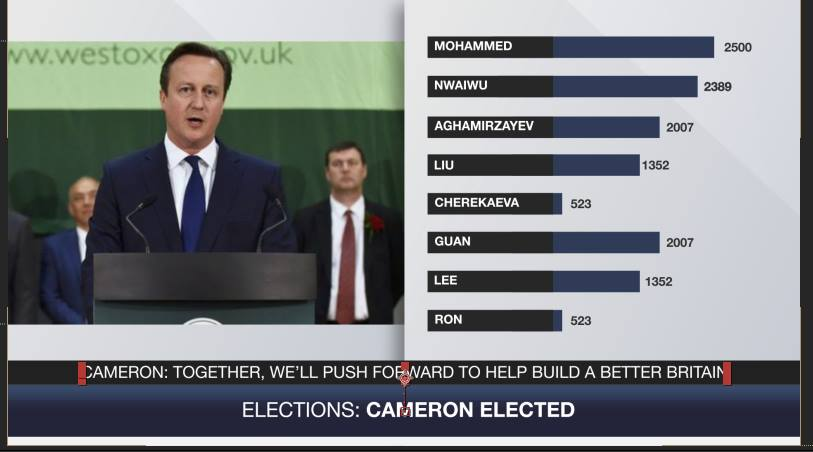
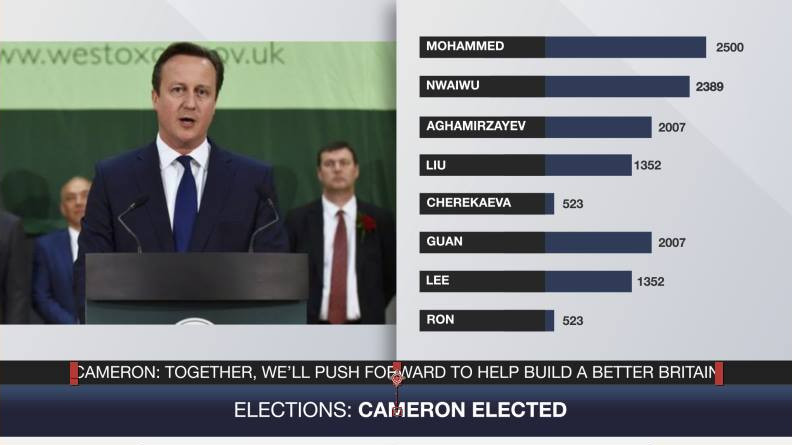
Finish up graph animations

diff --git a/public/simple-js/graph.js b/public/simple-js/graph.js
@@ -3,49 +3,24 @@
 function render(){
   Graphs.addRound();
 
-  Graphs.addData(0, 50);
-  Graphs.addData(1, 10)
-  Graphs.addData(2, 99);
-  Graphs.addData(3, 99);
-  Graphs.addData(4, 99);
-  Graphs.addData(5, 99);
-  Graphs.addData(6, 99);
-  Graphs.addData(7, 99);
+  // Graphs.addData(0, 50);
+  // Graphs.addData(1, 10)
+  // Graphs.addData(2, 99);
+  // Graphs.addData(3, 99);
+  // Graphs.addData(4, 99);
+  // Graphs.addData(5, 99);
+  // Graphs.addData(6, 99);
+  // Graphs.addData(7, 99);
 }
 
 // ============================================
 
 var TARGET_BAR_THICKNESS = 55;
-var AREA_HEIGHT = 750;
-
-var myLabels = [
-  "Aghamirzayev".toUpperCase(),
-  "Cherekaeva".toUpperCase(),
-  "Guan".toUpperCase(),
-  "Liu".toUpperCase(),
-  "Mohammed".toUpperCase(),
-  "Nwaiwu".toUpperCase(),
-  "Nwaiwu".toUpperCase(),
-  "RON"
-];
-
-var initialData = {
-  labels : [ "","","","","","","",""],
-  datasets : [
-    {
-      fillColor : "#333d56",
-      highlightFill : "#333d56",
-      data : [0,0,0,0,0,0,0,0]
-    }
-  ]
-
-};
+var TARGET_BAR_SPACING = 20*2;
+var MAX_AREA_HEIGHT = 750;
 
 Chart.defaults.global.showScale = false;
 Chart.defaults.global.scaleShowLabels = false;
-// Chart.defaults.global.scaleOverride = true;
-// Chart.defaults.global.scaleSteps = 1.2;
-// Chart.defaults.global.scaleStepWidth= 90; // TODO dynamic this
 Chart.defaults.global.scaleLineColor = "transparent";
 Chart.defaults.global.scaleFontColor = "transparent";
 Chart.defaults.global.scaleFontSize = 22;
@@ -55,12 +30,12 @@ Chart.defaults.global.customTooltips = function(tooltip) {
   if(tooltip == false || !tooltip.text)
     return;
 
-  var elm = document.getElementById('tooltip'+tooltip.y)
+  var elm = document.getElementById('tooltip'+Math.floor(tooltip.y))
 
   if(!elm){
     elm = document.createElement('span');
     document.getElementById('chartWrapper').appendChild(elm);   
-    elm.setAttribute('id', 'tooltip'+tooltip.y); 
+    elm.setAttribute('id', 'tooltip'+Math.floor(tooltip.y)) 
   }
 
   elm.innerHTML = tooltip.text;
@@ -71,7 +46,6 @@ Chart.defaults.global.customTooltips = function(tooltip) {
   elm.style.left = (chart.offsetLeft+tooltip.x)+"px";
   elm.style.top = (chart.offsetTop+tooltip.y)+"px";
 
-  // elm.style.marginLeft = -(elm.offsetWidth)+"px";
   elm.style.marginLeft = "10px";
   elm.style.marginTop = -(elm.offsetHeight/2)+"px";
 
@@ -87,12 +61,6 @@ var Graphs = {
     if(hidden){
       hidden.remove();
     }
-
-    // var previous = document.querySelector('canvas.previous');
-    // if(previous){
-    //   previous.classList.add('gone');
-    //   previous.classList.remove('previous');
-    // }
 
     var current = document.querySelector('canvas.current');
     if(current){
@@ -114,7 +82,29 @@ var Graphs = {
 
     var ctx = canvas.getContext('2d');
 
-    var barSpacing = Graphs.barSpacing = (AREA_HEIGHT - (initialData.labels.length * TARGET_BAR_THICKNESS)) / (initialData.labels.length * 2);
+    var barSpacing = Graphs.barSpacing = TARGET_BAR_SPACING/2;
+
+    var chartHeight = (TARGET_BAR_SPACING + TARGET_BAR_THICKNESS) * Graphs.myLabels.length;
+    var marginTop = (MAX_AREA_HEIGHT - chartHeight)/2;
+    wrapper.style.height = chartHeight+"px";
+    canvas.style.marginTop = marginTop + "px";
+    document.querySelector('#chartLabels').style.marginTop = (marginTop+45) + "px";
+
+
+    var labels = [];
+    for(var i in Graphs.myLabels){
+      labels.push("");
+    }
+    var initialData = {
+      labels : labels,
+      datasets : [
+        {
+          fillColor : "#333d56",
+          highlightFill : "#333d56",
+          data : [0,0,0,0,0,0,0,0,0,0,0]
+        }
+      ]
+    };
 
     Graphs.current = new Chart(ctx).HorizontalBar(initialData, {
       scaleBeginAtZero: true,
@@ -146,11 +136,11 @@ var Graphs = {
         for(var i in this.datasets[0].bars){
           var bar = this.datasets[0].bars[i];
 
-          var elm = document.getElementById('tooltip'+bar.x);
+          var elm = document.getElementById('tooltip'+Math.floor(bar.y+1));
           if(elm == null || elm.classList.contains('invisible'))
             continue;
 
-          elm.style.x = (chart.offsetLeft+bar.x)+"px";
+          elm.style.left = (chart.offsetLeft+bar.x)+"px";
         }
       },
     });
@@ -165,7 +155,6 @@ var Graphs = {
     if(oldLabel)
       oldLabel.classList.add('disabled');
 
-
   },
 
   removeAllTooltip: function(){
@@ -174,87 +163,32 @@ var Graphs = {
     for(var i in elms){
       if(elms[i].classList)
         elms[i].classList.add('invisible');
-      // if(elms[i].remove)
-      //   elms[i].remove();
     }
   },
 
   addData: function(i, v){
-    var labelCount = initialData.labels.length;
+    var labelCount = Graphs.myLabels.length;
     Graphs.current.datasets[0].bars[labelCount-1-i].value = v;
 
-    // var currentMax = Graphs.current.scale.stepValue * Graphs.current.scale.steps;
-    // var newStepCount = v / Graphs.current.scale.stepValue;
-
-    // if(newStepCount > Graphs.current.scale.steps) {
-    //   Graphs.current.scale.steps = newStepCount;
-    //   Graphs.current.scale.max = v;
-    // }
-
     Graphs.current.update();
-  },
-
-  setQuota: function(v){
-    // Graphs.current.scale.stepValue = v;
-    // Graphs.current.scale.steps = 1.2;
-    // Graphs.current.scale.max = v * 1.2;
-
-    // Graphs.current.update();
   },
 
   createLabels: function(){
     var wrapper = document.querySelector('#chartLabels');
 
-    var labelCount = initialData.labels.length;
+    if(wrapper.innerHTML.length > 10)
+      return;
+
+    var labelCount = Graphs.myLabels.length;
 
     for(var i = 0; i < labelCount; i++){
       var elm = document.createElement('div');
       elm.classList.add('myLabel')
       elm.setAttribute('id', 'graphLabel'+i);
-      elm.innerHTML = myLabels[i];
+      elm.innerHTML = Graphs.myLabels[i];
       elm.style.marginTop = (Graphs.barSpacing*2)+"px";
       wrapper.appendChild(elm);
     }
-
-    // var table = document.createElement('table');
-    // document.querySelector('.chartFooter').appendChild(table);
-    // var tr1 = document.createElement('div');
-    // tr1.classList.add('myRow');
-    // document.querySelector('.chartFooter').appendChild(tr1);
-    // var tr2 = document.createElement('div');
-    // tr2.classList.add('myRow');
-    // document.querySelector('.chartFooter').appendChild(tr2);
-
-    // var labelCount = initialData.labels.length;
-
-    // var fullWidth = 2 * (Graphs.columnWidth + Graphs.columnSeperation);
-    // var leftMargin = (Graphs.columnWidth + Graphs.columnSeperation) / 2;
-    // var spacerWidth = (Graphs.columnWidth + Graphs.columnSeperation);
-
-    // document.querySelector('.chartFooter').style.marginLeft = -(leftMargin-75)+"px";
-    // var rowWidth = 900 + leftMargin * 2;
-    // tr1.style.width = rowWidth+"px";
-    // tr2.style.width = rowWidth+"px";
-
-    // for(var i = 0; i <= labelCount; i++){
-    //   if(i == 0){
-    //     Graphs.addLabel(tr1, fullWidth, myLabels[i]);
-    //     Graphs.addLabel(tr2, spacerWidth, "");
-    //   } else if (i == labelCount){
-    //     var tr = i%2 == 0 ? tr1 : tr2;
-    //     Graphs.addLabel(tr, spacerWidth, "");
-    //   } else {
-    //     var tr = i%2 == 0 ? tr1 : tr2;
-    //     Graphs.addLabel(tr, fullWidth, myLabels[i]);
-    //   }  
-    // }
-  },
-
-  addLabel: function(tr, width, val){
-    var td = document.createElement('div');
-    td.classList.add('myLabel')
-    td.style.width = width+"px";
-    td.innerHTML = val; 
-    tr.appendChild(td);
   }
+
 };

diff --git a/src/less/partials/graph.less b/src/less/partials/graph.less
@@ -20,7 +20,7 @@
 
       text-align: left;
       line-height: 55px;
-      padding: 0 10px;
+      padding: 0 15px;
 
       font-size: 32px;
       color: #fff;
@@ -58,20 +58,9 @@
     position: absolute;
     top: 50px;
     margin-left: -5px;
-    // margin-left: 75px;
-  }
-
-  canvas.previous {
-    margin-top: -10px;
-    margin-left: -10px;
-    opacity: 0.5;
-
-    transition: 0.5s all;
   }
 
   canvas.gone {
-    // margin-top: -20px;
-    // margin-left: -20px;
     opacity: 0;
 
     transition: 0.5s all;

diff --git a/graph.html b/graph.html
@@ -36,6 +36,17 @@
     <script type="text/javascript" src="public/simple-js/graph.js"></script>
     <script type="text/javascript">
 
+      Graphs.myLabels = [
+        "Aghamirzayev".toUpperCase(),
+        // "Cherekaeva".toUpperCase(),
+        "Guan".toUpperCase(),
+        "Liu".toUpperCase(),
+        "Mohammed".toUpperCase(),
+        "Nwaiwu".toUpperCase(),
+        // "Nwaiwu".toUpperCase(),
+        "RON"
+      ];
+
       function play(str){
         animate();
       }

diff --git a/public/css/app.css b/public/css/app.css
@@ -7344,7 +7344,7 @@ h6 {
   display: block;
   text-align: left;
   line-height: 55px;
-  padding: 0 10px;
+  padding: 0 15px;
   font-size: 32px;
   color: #fff;
   transition: opacity 0.5s;
@@ -7373,12 +7373,6 @@ h6 {
   position: absolute;
   top: 50px;
   margin-left: -5px;
-}
-.imageSide canvas.previous {
-  margin-top: -10px;
-  margin-left: -10px;
-  opacity: 0.5;
-  transition: 0.5s all;
 }
 .imageSide canvas.gone {
   opacity: 0;
